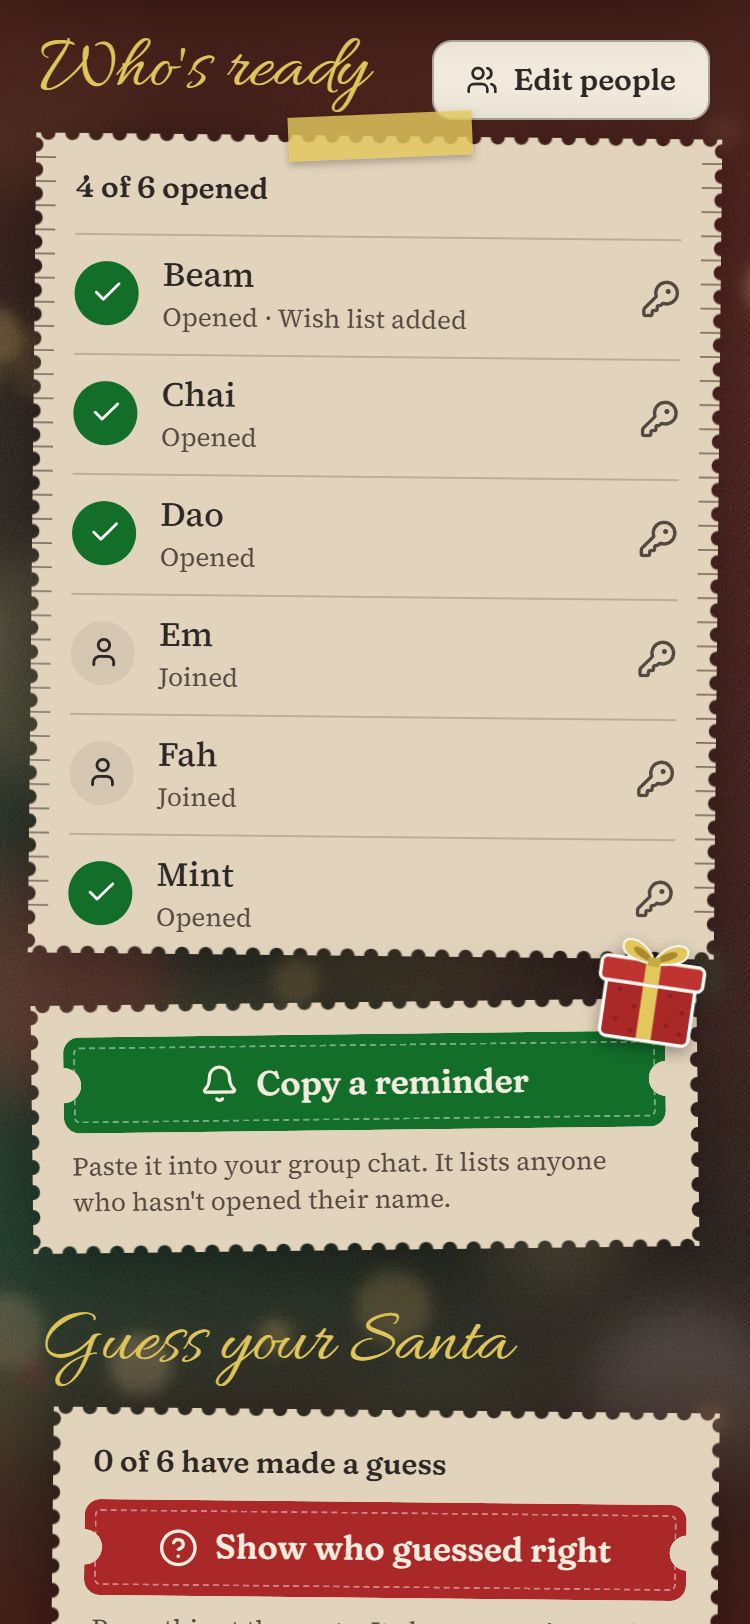
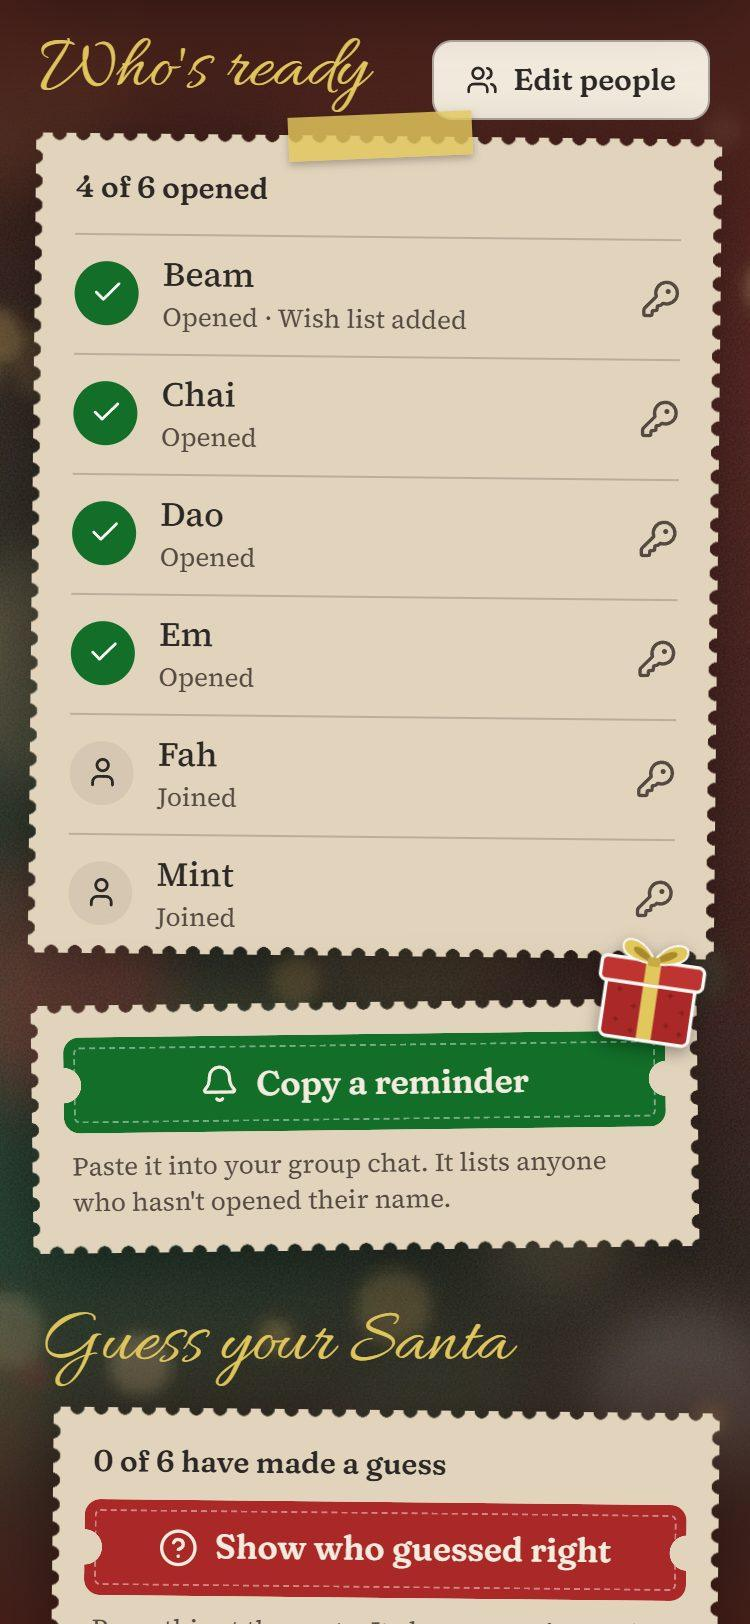
Retake the README screenshots and give real prices their own line
Every screen is shot again in the current look, and the wish list one
shows the website on each link and a price read from Lazada.

diff --git a/README.md b/README.md
@@ -24,7 +24,7 @@ Run a gift exchange from one link. Create a group, share the link, and everyone 
   <img src="docs/screenshots/reveal.jpg" alt="The name you drew, on a gift tag" width="240">
 </p>
 <p>
-  <img src="docs/screenshots/wishes.jpg" alt="A wish list with Shopee, Lazada and TikTok Shop links" width="240">
+  <img src="docs/screenshots/wishes.jpg" alt="A wish list where every link shows its website, and the Lazada one its price from the shop" width="240">
   <img src="docs/screenshots/status.jpg" alt="Organiser's list of who has opened their name" width="240">
   <img src="docs/screenshots/results.jpg" alt="Table of who guessed their Santa correctly" width="240">
 </p>
@@ -48,7 +48,8 @@ The screenshots use a demo group with made-up names.
 **Taking part**
 - **Join with your name and a 4-digit PIN.** The PIN opens your page on another phone.
 - **Unwrap a gift** to see who you drew, with falling snow and confetti. It wraps itself again on each visit, so the name is never on screen by surprise.
-- **Wish lists:** paste a link from any shop. The site recognises Shopee, Lazada, TikTok Shop, Taobao, Tmall, JD, AliExpress, Temu, SHEIN, Amazon, eBay and Etsy, and fills in the product name when the link includes one. Every link shows the website it really goes to. There's no price box, so nobody can list an expensive gift as cheap: where the shop allows it (Lazada and many smaller shops, but not Shopee), the site reads the price from the shop's own page, shows it as "฿1,150 at Lazada", and checks it again every six hours.
+- **Wish lists:** paste a link from any shop. The site recognises Shopee, Lazada, TikTok Shop, Taobao, Tmall, JD, AliExpress, Temu, SHEIN, Amazon, eBay and Etsy, and fills in the product name when the link includes one. Every link shows the website it really goes to, so a link can't pass for a shop it isn't.
+- **Real prices:** there's no price box, so nobody can list an expensive gift as cheap. Where the shop allows it (Lazada and many smaller shops, but not Shopee), the site reads the price from the shop's own page, shows it as "฿1,150 at Lazada", and checks it again every six hours.
 - **A few things about you:** likes, sizes and "please no", for people without links to add.
 - **Gift search:** search Shopee, Lazada, TikTok, Taobao, AliExpress and Temu, starting from what your person likes.
 - **Anonymous messages:** ask your person a question. They see "Your Santa" and can reply without learning who asked.
